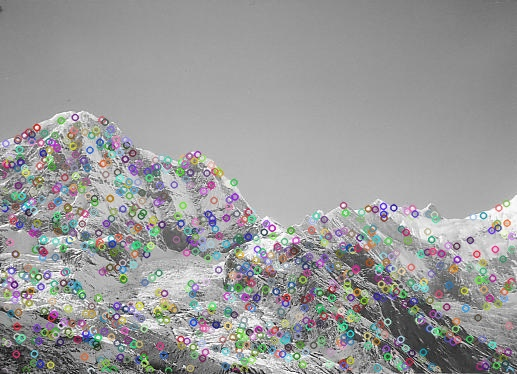
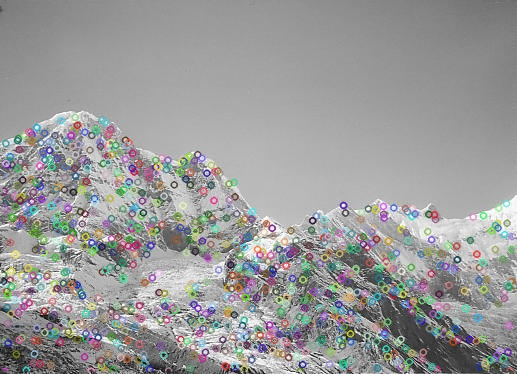
Added match image for using only inliers

Changed region(s): [[0.0, 0.2941, 1.0, 1.0], [0.9594, 0.8529, 0.9903, 0.8824], [0.8356, 0.9706, 0.8665, 1.0]]

diff --git a/Project 2/Task1/main.py b/Project 2/Task1/main.py
@@ -1,9 +1,11 @@
 import os
 import cv2 as cv
 import numpy as np
+from matplotlib import pyplot as plt
+import random
 
 UBIT = 'ameenmoh'
-_random = np.random.seed(sum([ord(c) for c in UBIT]))
+np.random.seed(sum([ord(c) for c in UBIT]))
 
 OUTPUT_DIR = "outputs/"
 img1_name = "./mountain1.jpg"
@@ -40,7 +42,7 @@ def _extract_SIFT_keypoints(sift_obj, img1, img2, img1_g, img2_g):
     return(keypoint_1, descriptor_1, keypoint_2, descriptor_2)
 
 
-def _match_keypoints(*args):
+def _draw_match_keypoints(*args):
     """Draw match image for all matches
     Keypoint matching using k-nearest neighbour
     """
@@ -57,16 +59,15 @@ def _match_keypoints(*args):
     for m, n in matches:
         if m.distance < 0.75*n.distance:
             good_matches.append([m])
-
     # cv2.drawMatchesKnn expects list of lists as matches.
     img3 = cv.drawMatchesKnn(img1_g, keypoint_1, img2_g,
                              keypoint_2, good_matches, None, flags=2)
-    _save('task1 matches knn.jpg', img3)
+    _save('task1_matches_knn.jpg', img3)
 
     return(good_matches)
 
 
-def _get_homography_matrix(good_matches, keypoint_1, keypoint_2):
+def _get_homography_matrix(good_matches, keypoint_1, keypoint_2, _H = True):
     """Homography matrix H (with RANSAC) from the image 1 to image 2
     """
     source = np.float32(
@@ -74,9 +75,30 @@ def _get_homography_matrix(good_matches, keypoint_1, keypoint_2):
     dest = np.float32(
         [keypoint_2[m[0].trainIdx].pt for m in good_matches]).reshape(-1, 1, 2)
 
-    H, _ = cv.findHomography(source, dest, cv.RANSAC, 5.0)
-    print("Homography Matrix  : ")
-    print(H)
+    H, mask = cv.findHomography(source, dest, cv.RANSAC, 5.0)
+    if _H:
+        print("Homography Matrix  : ")
+        print(H)
+    return(mask)
+
+
+def _draw_inlier_match_keypoints(img1_g, keypoint_1, img2_g, keypoint_2, good_matches, mask):
+    """Draw match image for  10 random matches using only inliers.
+    TODO : Check if good_matches in this case is just inliers or both inliers and outliers
+    """
+    good_matches = random.sample(good_matches, 10)
+    mask = _get_homography_matrix(good_matches, keypoint_1, keypoint_2, _H = False)
+    matchesMask = mask.ravel().tolist()
+    # matchesMask = matchesMask[:10]
+    draw_params = dict(matchColor=(0, 255, 0),  # draw matches in green color
+                       singlePointColor=None,
+                       matchesMask=matchesMask,  # draw only inliers
+                       flags=2)
+    # print(len(matchesMask))
+    good_matches = [i[0] for i in good_matches] # Get the elements inside of list elements
+    img3 = cv.drawMatches(img1_g, keypoint_1, img2_g,
+                          keypoint_2, good_matches, None, **draw_params)
+    _save('task1_matches.jpg', img3)
 
 
 if __name__ == '__main__':
@@ -91,8 +113,12 @@ if __name__ == '__main__':
         sift_obj, img1, img2, img1_g, img2_g)
 
     # Part 2
-    good_matches = _match_keypoints(sift_obj, img1_g, keypoint_1, descriptor_1,
-                                    img2_g, keypoint_2, descriptor_2)
+    good_matches = _draw_match_keypoints(sift_obj, img1_g, keypoint_1, descriptor_1,
+                                         img2_g, keypoint_2, descriptor_2)
 
     # Part 3
-    _get_homography_matrix(good_matches, keypoint_1, keypoint_2)
+    mask = _get_homography_matrix(good_matches, keypoint_1, keypoint_2)
+
+    # Part 4
+    _draw_inlier_match_keypoints(
+        img1_g, keypoint_1, img2_g, keypoint_2, good_matches, mask)
